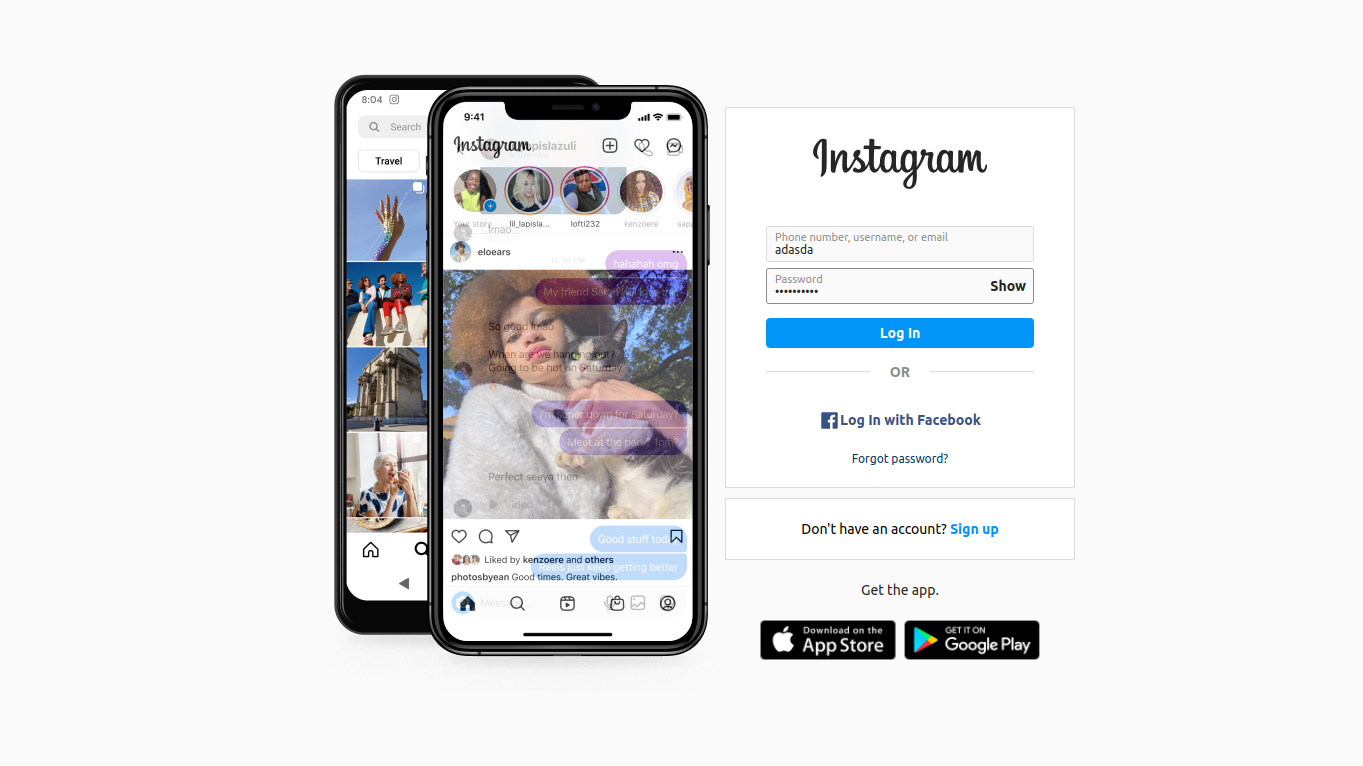
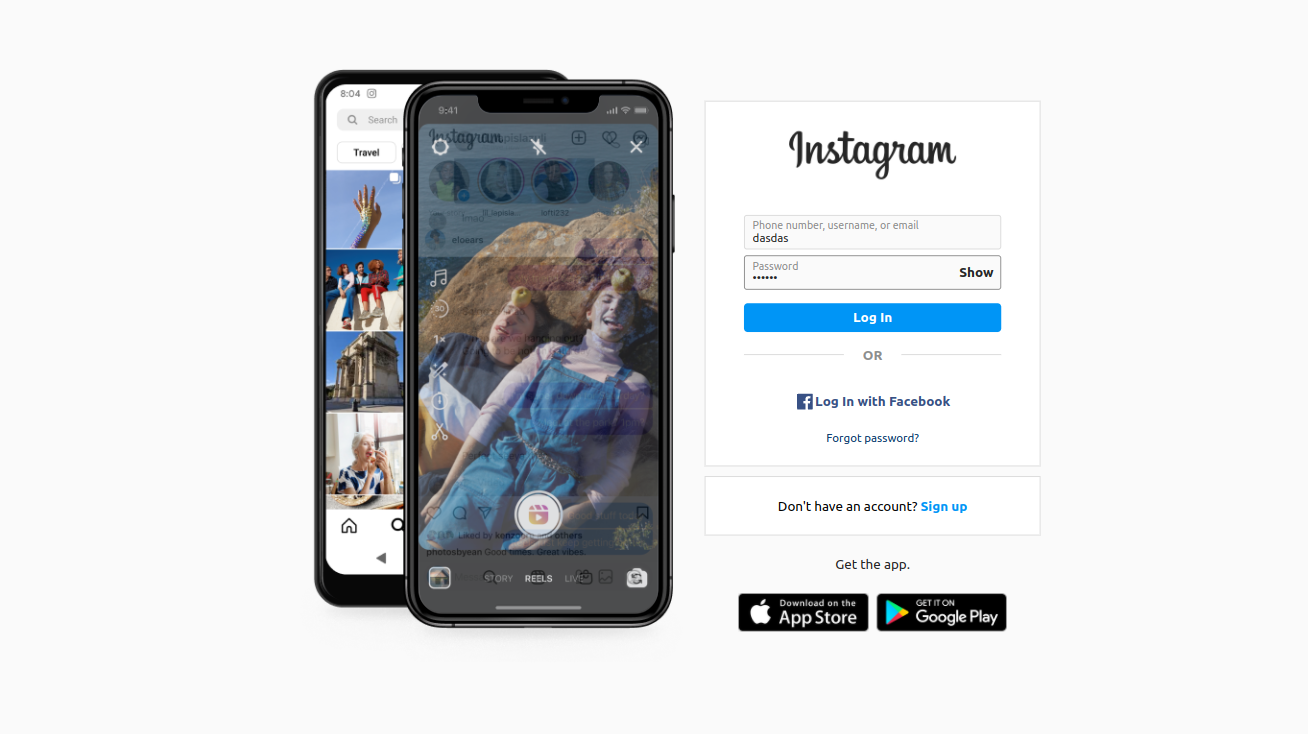
login screen minor spacing adjusment

diff --git a/src/views/Login.jsx b/src/views/Login.jsx
@@ -14,7 +14,7 @@ const Login = () => {
       <div className="invisible md:visible md:w-[454px] h-[618px]">
         <Phones />
       </div>
-      <div className="min-w-[350px] md:-ml-4">
+      <div className="min-w-[350px]">
         <div className="mb-2.5">
           <LoginBox />
         </div>

diff --git a/README.md b/README.md
@@ -1,11 +1,11 @@
 # Instagram web app UI clone (React + TailwindCSS)
 
-[hosting]: https://chat-juxnpxblo.herokuapp.com/
+[hosting]: https://insta-ui-clone.vercel.app/
 [preview1]: https://github.com/juxnpxblo/insta-ui-clone/blob/master/preview-1.png
 [preview2]: https://github.com/juxnpxblo/insta-ui-clone/blob/master/preview-2.png
 [preview3]: https://github.com/juxnpxblo/insta-ui-clone/blob/master/preview-3.png
 
-> See the [live preview](https://insta-ui-clone.vercel.app/)
+> See the [live preview][hosting]
 
 ## Gallery
 
